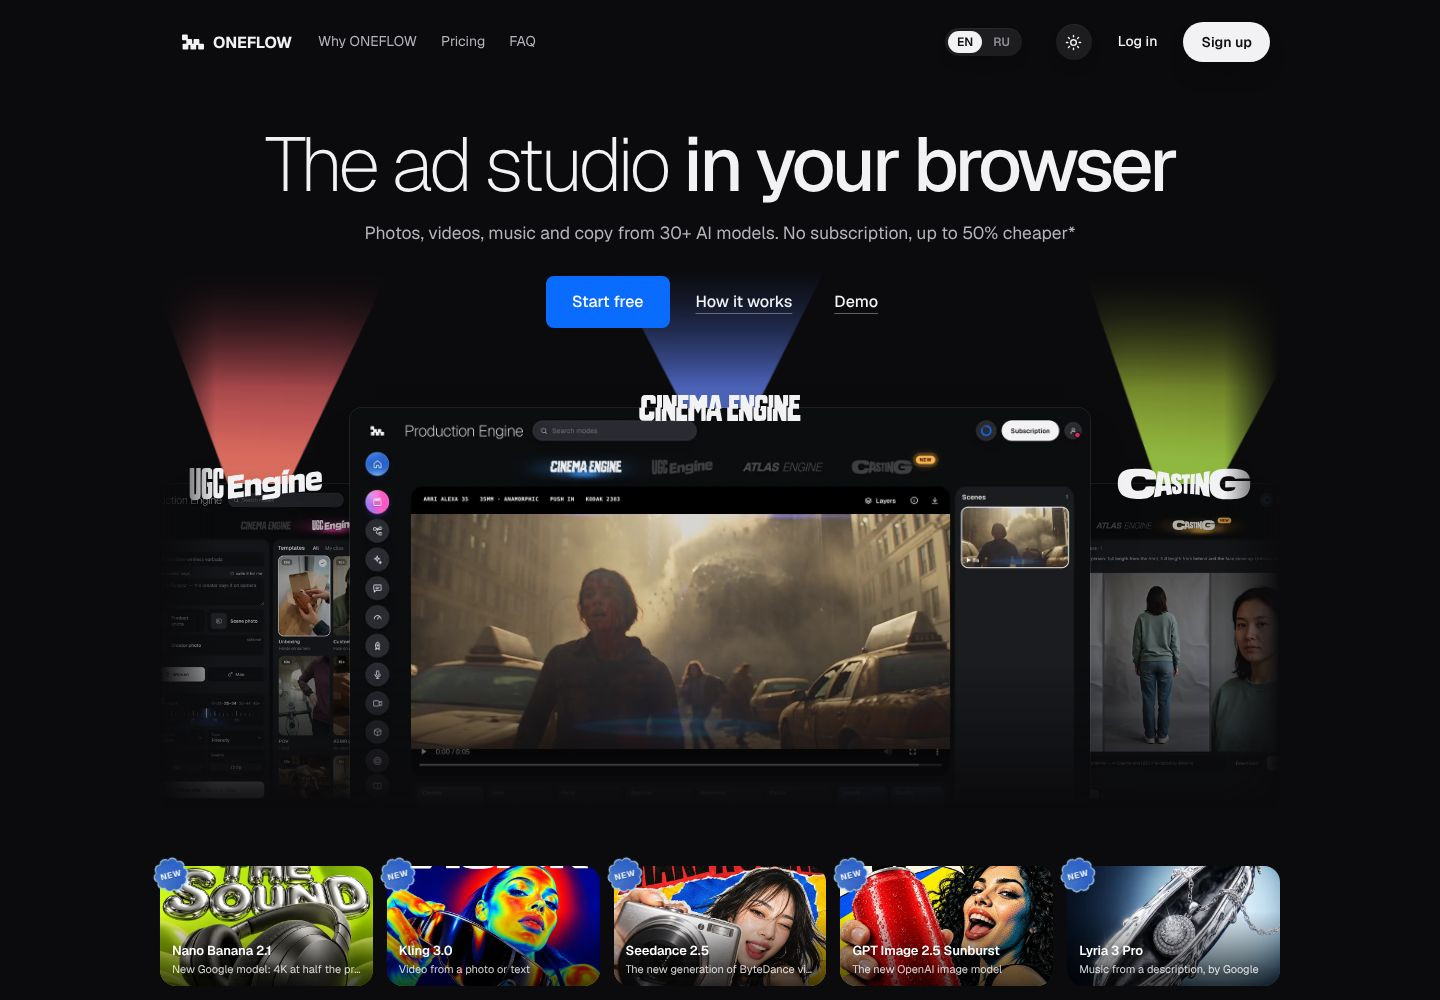
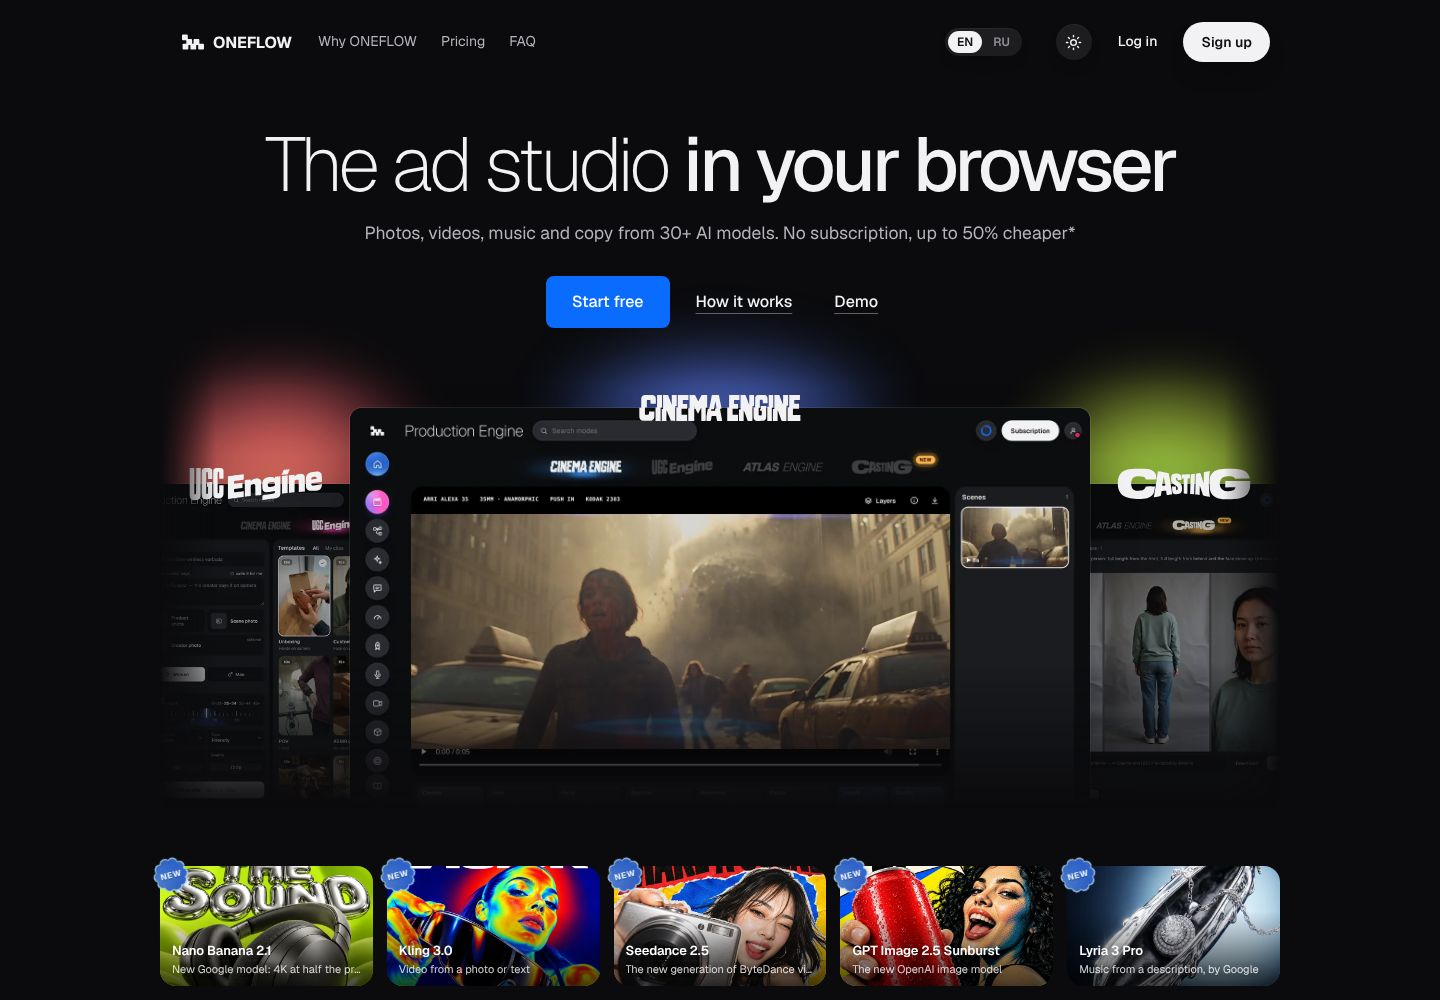
Hero draft: the glow as three blurred half-circles
Claude-Session: https://claude.ai/code/session_018a2KjtpEKLUTJU5P3jAt1D

Changed region(s): [[0.0938, 0.31, 0.2812, 0.496], [0.7188, 0.31, 0.9062, 0.496], [0.375, 0.279, 0.625, 0.434]]

diff --git a/landing/hero_draft/hero.css b/landing/hero_draft/hero.css
@@ -61,15 +61,15 @@ html[lang] .hero.hq35 .hq-desk { height: 540px; margin-top: -60px; pointer-event
   -webkit-mask-composite: source-in; mask-composite: intersect; }
 html[lang] .hero.hq35 .w-c { top: 140px; }
 html[lang] .hero.hq35 .w-l, html[lang] .hero.hq35 .w-r { top: 216px; }
-/* three cones of light, one rising from each window, apart from one another (the owner, 2026-11-20): each
-   sways a little on its foot and changes its tint */
-html[lang] .hero.hq35 .hq-w .hq-blob { left: 22%; right: 22%; top: -214px; height: 250px; border-radius: 0; background: linear-gradient(0deg, hsl(var(--h) 100% 66% / .95) 0, hsl(var(--h) 100% 62% / .5) 45%, hsl(var(--h) 100% 60% / 0) 100%); -webkit-clip-path: polygon(44% 100%, 56% 100%, 100% 0, 0 0); clip-path: polygon(44% 100%, 56% 100%, 100% 0, 0 0); filter: blur(28px); transform-origin: 50% 100%; animation: hq-sway 9s ease-in-out infinite alternate; will-change: transform, opacity; }
-html[lang] .hero.hq35 .hq-w .hq-blob::after { content: ""; position: absolute; inset: 0; background: linear-gradient(0deg, hsl(calc(var(--h) + 56) 100% 68% / .95) 0, hsl(calc(var(--h) + 56) 100% 64% / .5) 45%, hsl(calc(var(--h) + 56) 100% 60% / 0) 100%); opacity: 0; animation: hq-tint 7s ease-in-out infinite alternate; }
-html[lang] .hero.hq35 .w-c .hq-blob { left: 30%; right: 30%; }
-html[lang] .hero.hq35 .w-l .hq-blob { left: 6%; right: 46%; animation-delay: -4s; animation-duration: 11s; }
+/* three blurred half-circles of light, one over each window, apart from one another (the owner, 2026-11-20):
+   each breathes a little and changes its tint */
+html[lang] .hero.hq35 .hq-w .hq-blob { left: 14%; right: 14%; top: -118px; height: 150px; border-radius: 50% 50% 0 0 / 100% 100% 0 0; background: radial-gradient(ellipse 50% 100% at 50% 100%, hsl(var(--h) 100% 66% / .95) 0, hsl(var(--h) 100% 62% / .55) 55%, hsl(var(--h) 100% 60% / 0) 100%); filter: blur(30px); transform-origin: 50% 100%; animation: hq-breathe 9s ease-in-out infinite alternate; will-change: transform, opacity; }
+html[lang] .hero.hq35 .hq-w .hq-blob::after { content: ""; position: absolute; inset: 0; border-radius: inherit; background: radial-gradient(ellipse 50% 100% at 50% 100%, hsl(calc(var(--h) + 56) 100% 68% / .95) 0, hsl(calc(var(--h) + 56) 100% 64% / .55) 55%, hsl(calc(var(--h) + 56) 100% 60% / 0) 100%); opacity: 0; animation: hq-tint 7s ease-in-out infinite alternate; }
+html[lang] .hero.hq35 .w-c .hq-blob { left: 26%; right: 26%; top: -84px; height: 112px; }
+html[lang] .hero.hq35 .w-l .hq-blob { left: 4%; right: 36%; animation-delay: -4s; animation-duration: 11s; }
 html[lang] .hero.hq35 .w-l .hq-blob::after { animation-delay: -2.5s; }
-html[lang] .hero.hq35 .w-r .hq-blob { left: 46%; right: 6%; animation-delay: -7s; animation-duration: 13s; }
+html[lang] .hero.hq35 .w-r .hq-blob { left: 36%; right: 4%; animation-delay: -7s; animation-duration: 13s; }
 html[lang] .hero.hq35 .w-r .hq-blob::after { animation-delay: -5s; }
-@keyframes hq-sway { 0% { transform: rotate(-7deg) scaleY(.92); opacity: .65; } 50% { transform: rotate(2deg) scaleY(1.06); opacity: 1; } 100% { transform: rotate(7deg) scaleY(.96); opacity: .75; } }
+@keyframes hq-breathe { 0% { transform: scale(.9, .86); opacity: .65; } 50% { transform: scale(1.06, 1.1); opacity: 1; } 100% { transform: scale(.97, .95); opacity: .8; } }
 @keyframes hq-tint { 0% { opacity: 0; } 100% { opacity: 1; } }
 @media (prefers-reduced-motion: reduce) { html[lang] .hero.hq35 .hq-w .hq-blob, html[lang] .hero.hq35 .hq-w .hq-blob::after { animation: none; } }

diff --git a/landing/hero_draft/README.md b/landing/hero_draft/README.md
@@ -22,9 +22,9 @@
 Кнопок три (20.11.2026, стиль C из `button-styles.png`): синяя «Начать бесплатно» и две подчёркнутые
 текстовые — «Как это работает» и справа «Демо» (`/app?demo=1`).
 
-Свечение за окнами (20.11.2026) — три отдельных конуса света, по одному над каждым окном, а не сплошная
-полоса. Они нигде не обрезаются краем блока, слегка покачиваются и меняют оттенок (при «уменьшить движение»
-стоят на месте).
+Свечение за окнами (20.11.2026) — три отдельных размытых полукруга света, по одному над каждым окном
+(до этого пробовали сплошную полосу и конусы). Они нигде не обрезаются краем блока, слегка «дышат» и меняют
+оттенок (при «уменьшить движение» стоят на месте).
 
 ## Не решено
 
